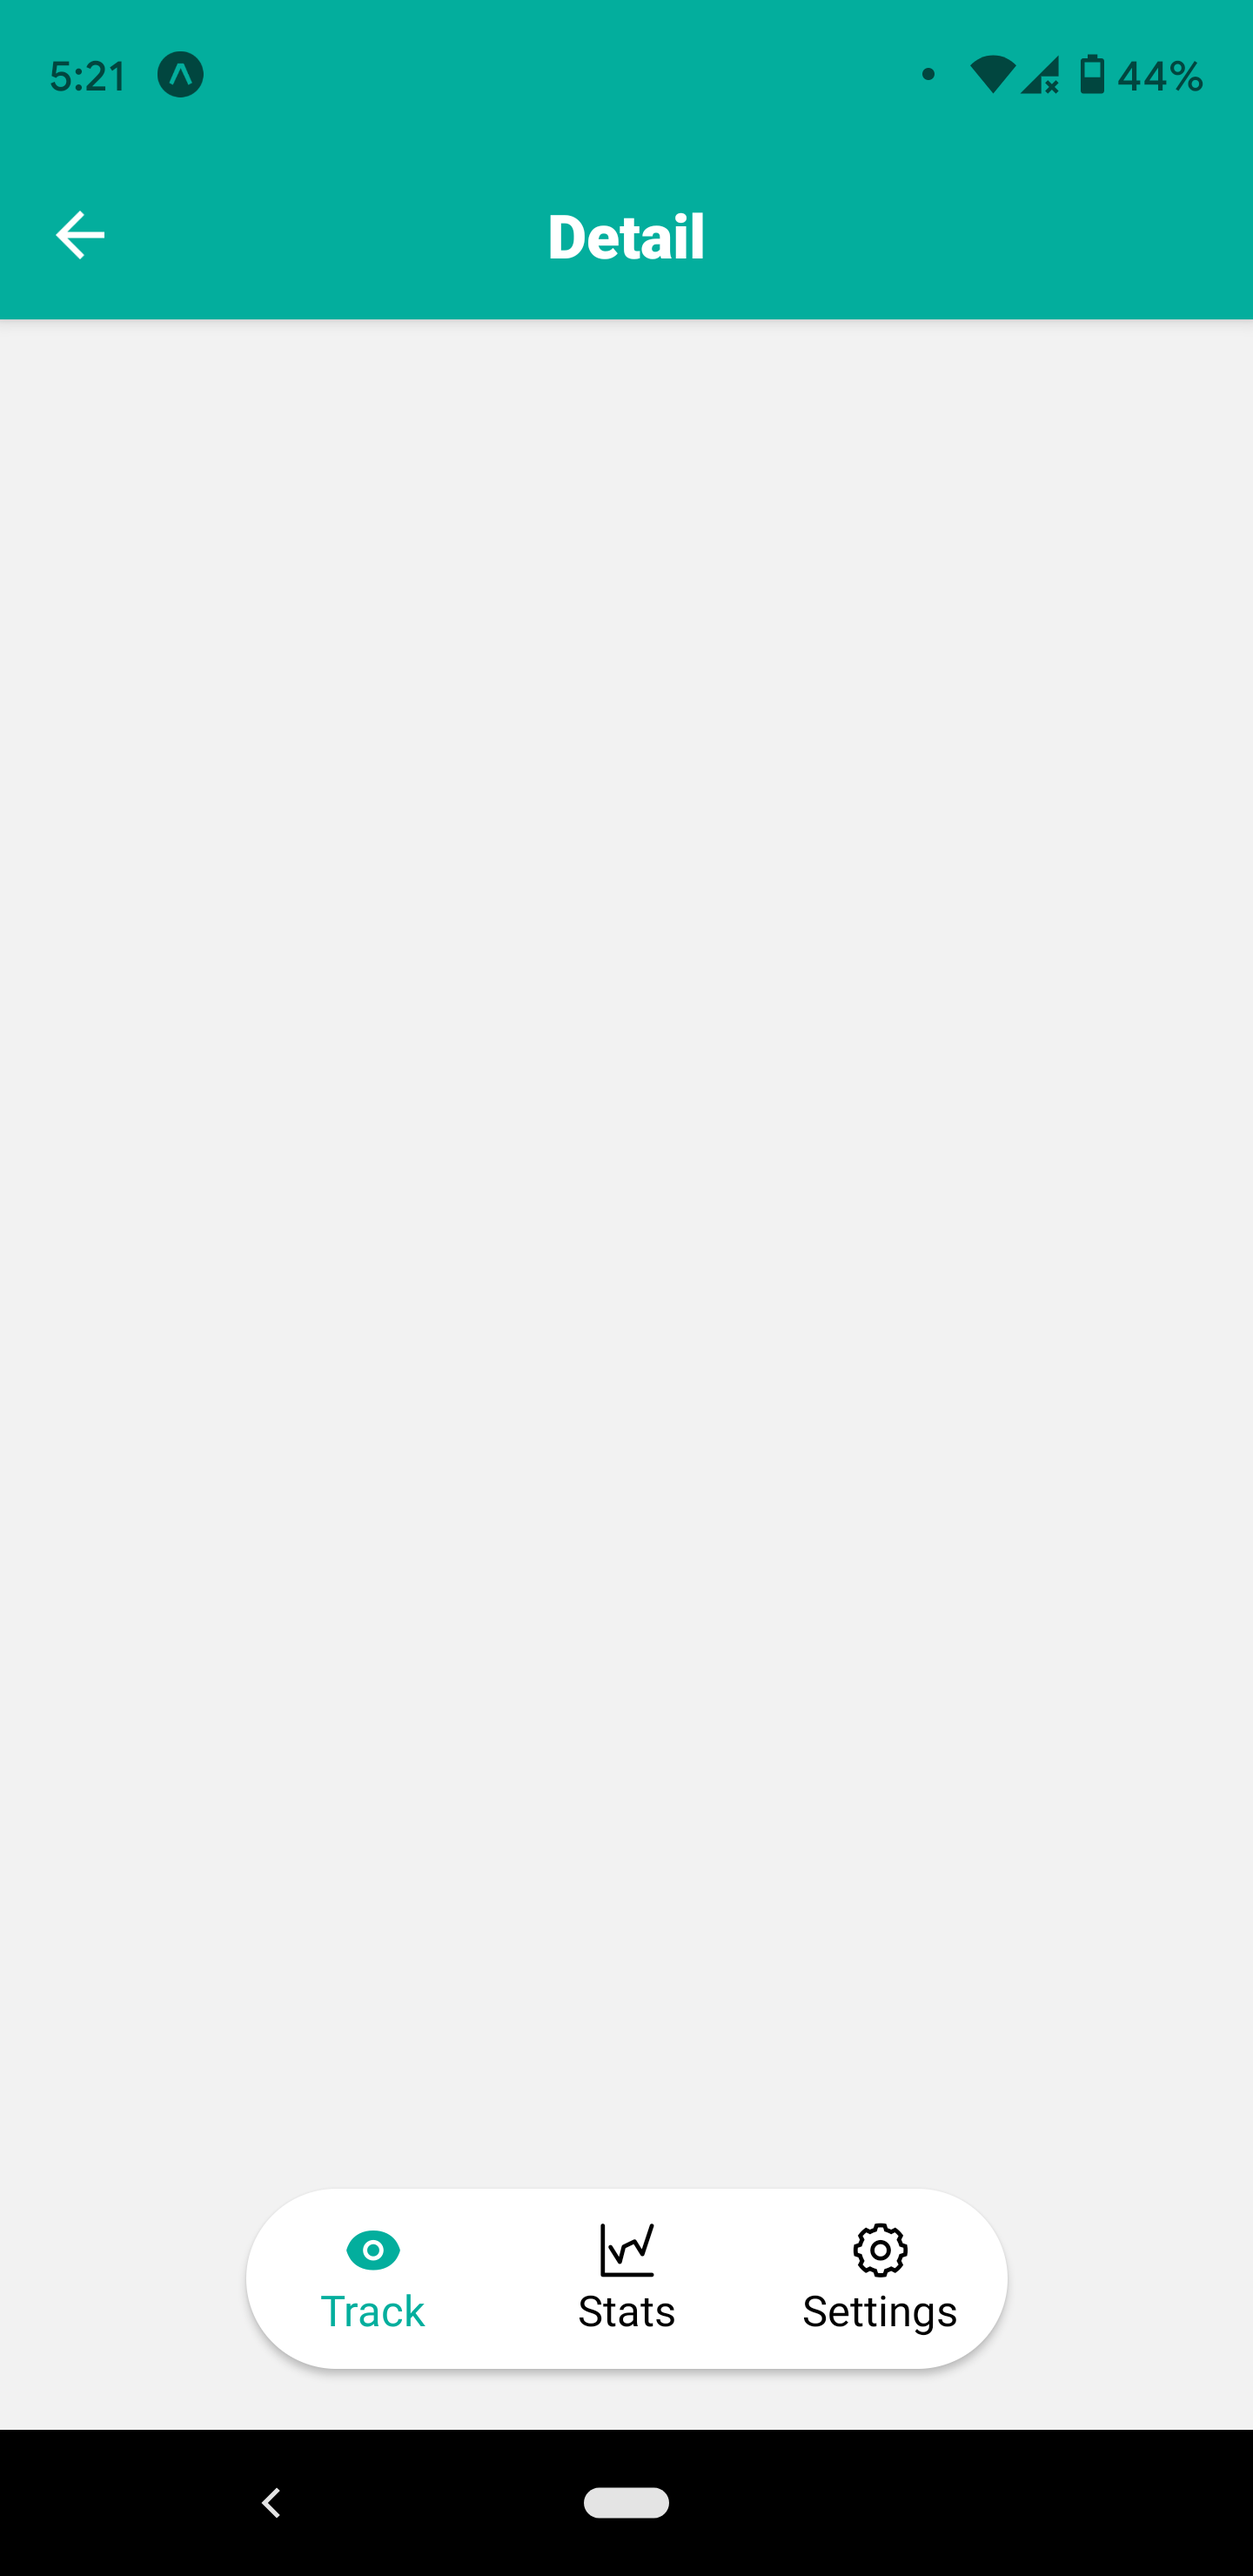
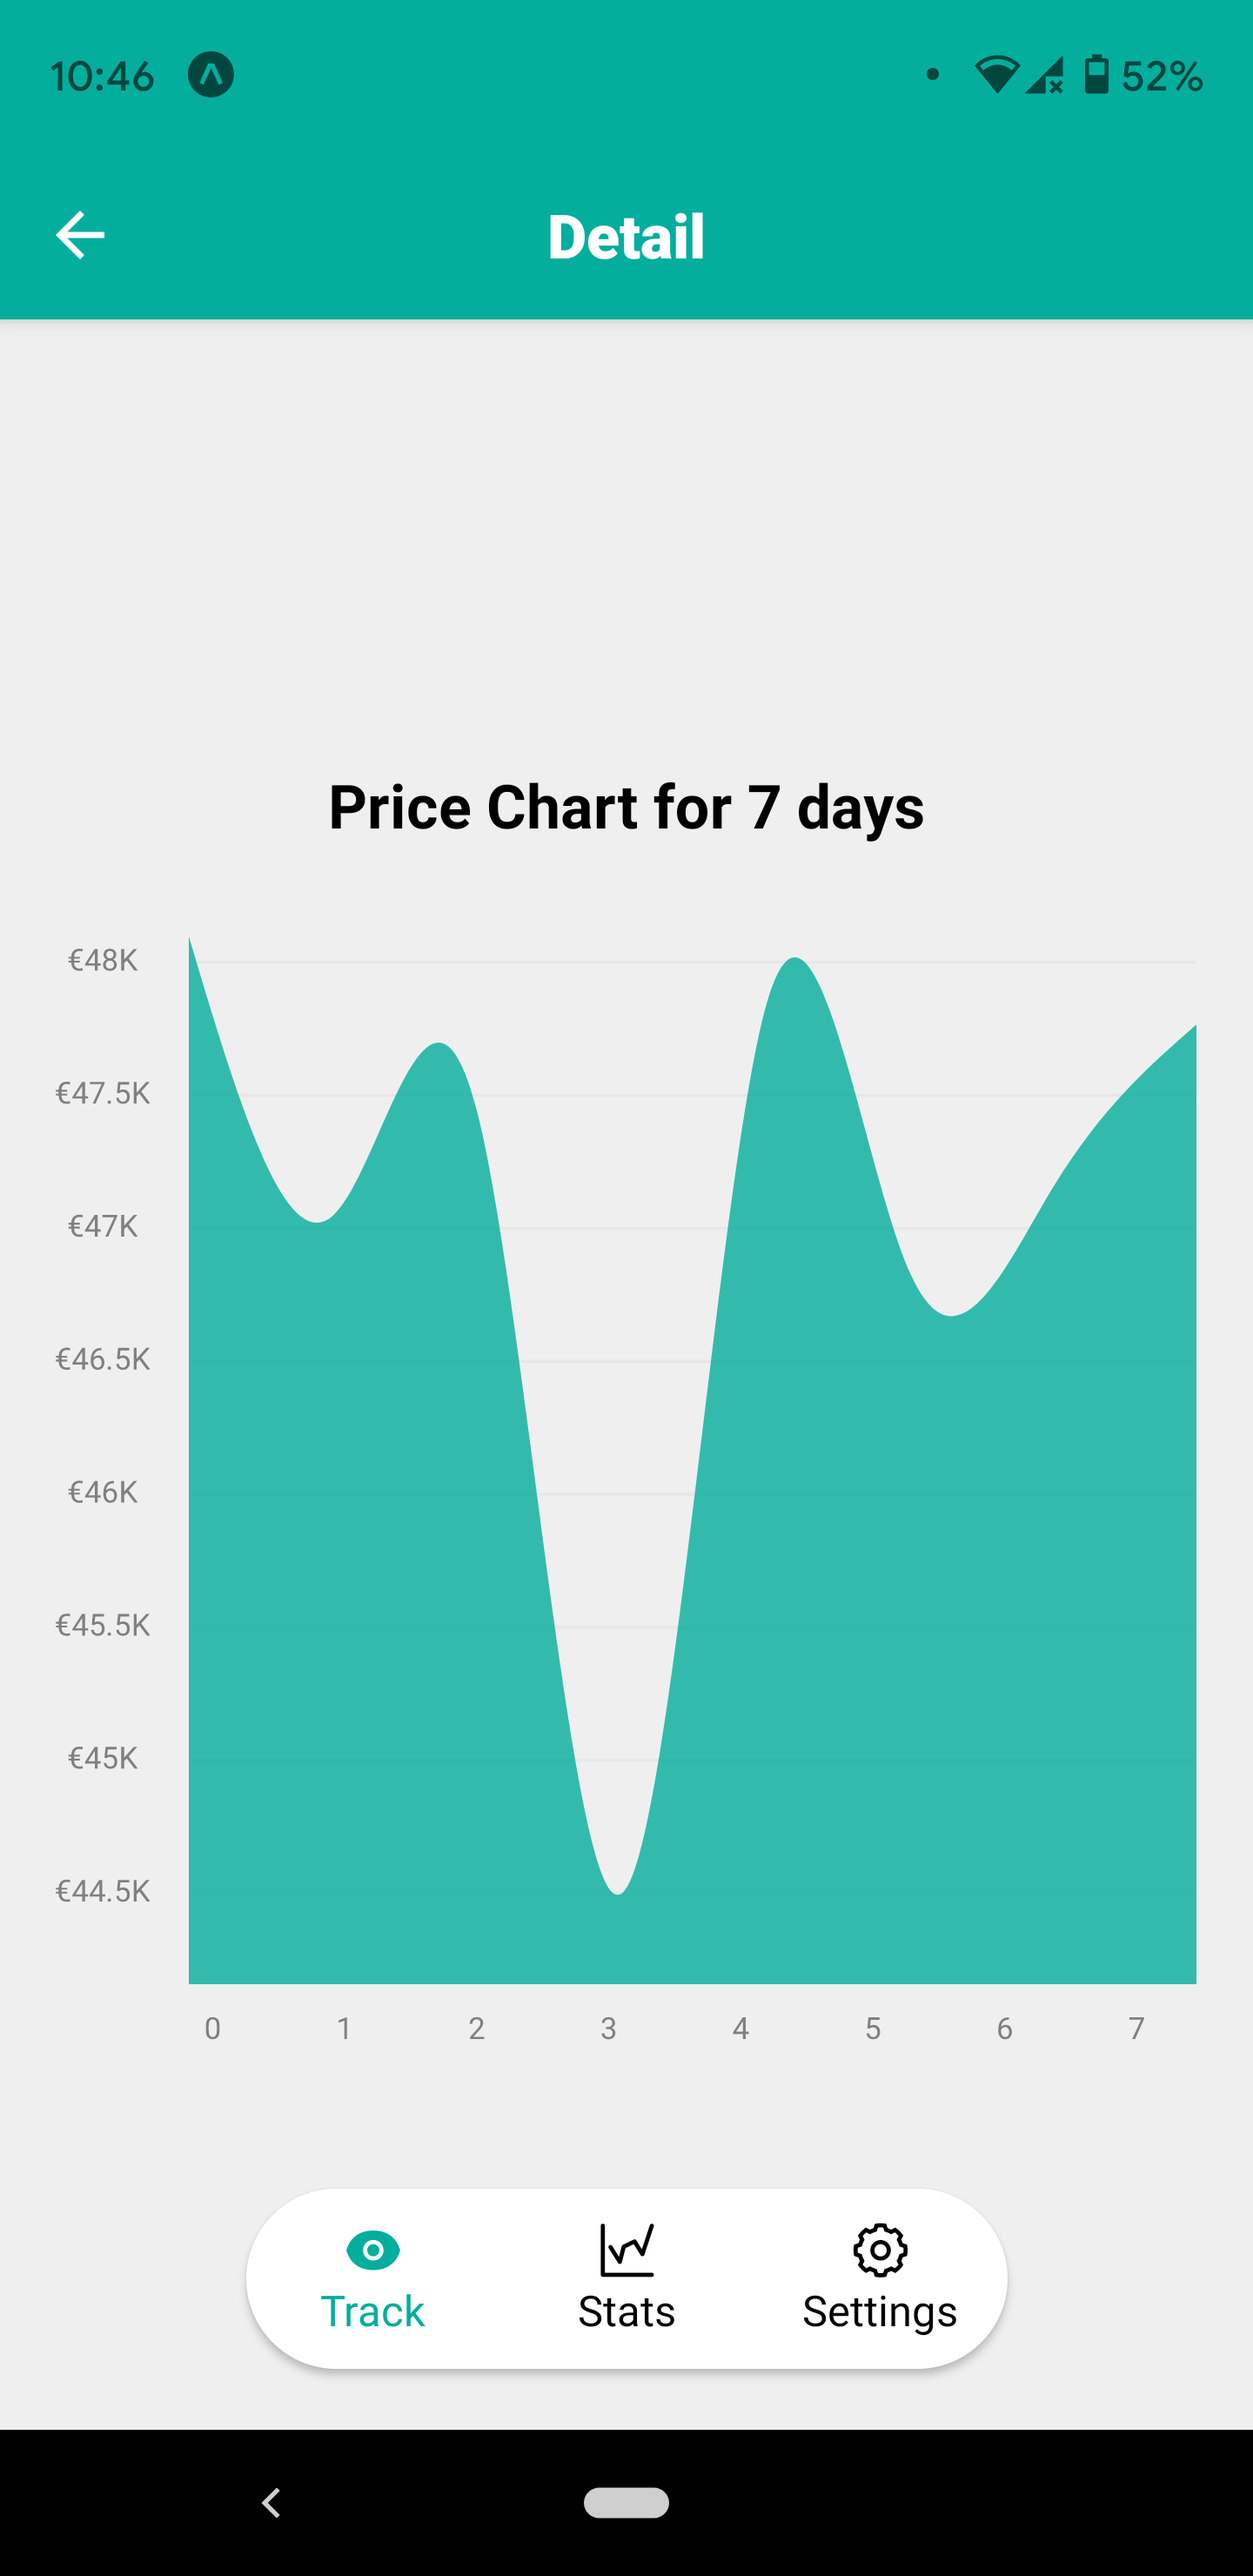
Update App Details

diff --git a/app/components/CryptoDetail.js b/app/components/CryptoDetail.js
@@ -7,7 +7,8 @@ const CryptoDetail = ({ route }) => {
   const { itemId } = route.params;
   return (
     <View style={styles.container}>
-      <Text style={styles.text}>{itemId}</Text>
+      {/* <Text style={styles.text}>{itemId}</Text> */}
+      <Text style={styles.text}>Price Chart for 7 days</Text>
       <Area coinId={itemId} />
     </View>
   );

diff --git a/app/components/Area.js b/app/components/Area.js
@@ -37,6 +37,7 @@ const Area = ({ coinId }) => {
     if (n >= 1e12) return +(n / 1e12).toFixed(1) + 'T';
   };
 
+  // Price Chart for %1$s days\n(x-axis: Date, y-axis: Price in €)
   return (
     <SafeAreaView style={styles.wrapper}>
       <YAxis

diff --git a/README.md b/README.md
@@ -1,6 +1,8 @@
 # Crypto Tracker App
 
-A Crypto Tracker App built using React Native, utilizing [**CoinGecko API**](https://www.coingecko.com/api/documentations/v3) [~~CoinMarketCap API~~](https://coinmarketcap.com/api/documentation/v1/#tag/exchange) to track the price of cryptocurrencies.
+A Crypto Tracker App inspired by SpiralDev's [**CryptoTracker**](https://github.com/SpiralDevelopment/CryptoTracker), built using React Native, utilizing [CoinGecko API](https://www.coingecko.com/api/documentations/v3) [~~CoinMarketCap API~~](https://coinmarketcap.com/api/documentation/v1/#tag/exchange) to track the price of cryptocurrencies.
+
+
 ## User Stories
 
 - [ ] The user can request the list of cryptocurrencies from the CoinGecko API and see the results collated together.
@@ -27,6 +29,5 @@ COINGECKO_URL=https://api.coingecko.com
 - [Why I’ve built a Coinmarketcap proxy](https://medium.com/@theBliz/why-ive-built-a-coinmarketcap-proxy-e06c898b5765)
 - [Infinite scroll/Paginating FlatList with just hooks and function components](https://medium.com/@srbkrishnan/infinite-scroll-pagination-in-flatlist-with-hooks-and-function-components-c9c08bba23a8)
 - [React Native Scroll Item animation effect - FlatList and Animated API](https://www.youtube.com/watch?v=F8x-dyIsrJ8)
-- [CryptoTracker](https://github.com/SpiralDevelopment/CryptoTracker)
 - [How to Properly Use Environment Variables in an Expo React Native App](https://medium.com/swlh/how-to-properly-use-environment-variables-in-an-expo-react-native-app-7ab852590b30#:~:text=An%20environment%20variable%20is%20a,to%20be%20imported%20at%20all.)
 - [The top 8 React Native chart libraries for 2021](https://blog.logrocket.com/the-top-8-react-native-chart-libraries-for-2021/)
